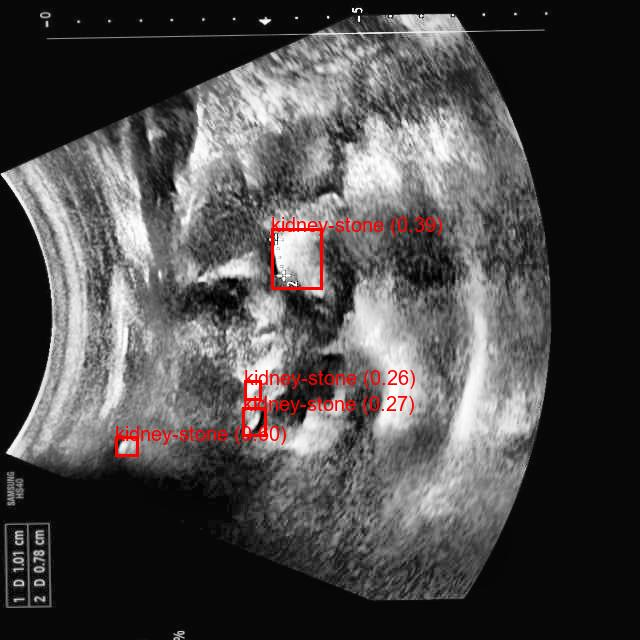
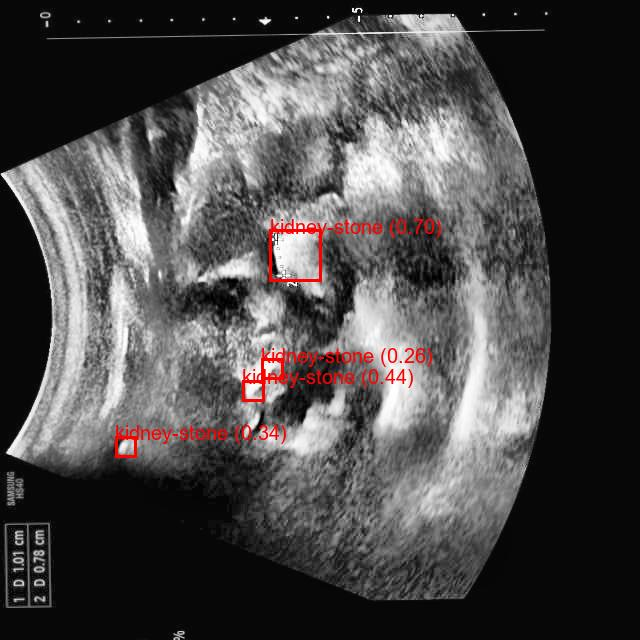
added yolov8 on app

Changed region(s): [[0.1875, 0.5312, 0.6875, 0.7188], [0.4062, 0.3125, 0.7188, 0.4688]]

diff --git a/app.py b/app.py
@@ -17,7 +17,7 @@ st.subheader("Input Options")
 input_option = st.radio("Choose input type", ("Upload Image", "Use Camera"), key="input_radio")
 
 # Dropdown to select the model
-model_option = st.selectbox("Select Model", ("YOLOv11x", "YOLOv8x (Not yet available)"), key="model_dropdown")
+model_option = st.selectbox("Select Model", ("YOLOv11x", "YOLOv8x"), key="model_dropdown")
 
 # Initialize variables
 img_file_buffer = None
@@ -48,23 +48,13 @@ if img_file_buffer or uploaded_image:
 if image_path and st.button("Run Prediction"):
     # URL and API setup based on selected model
     url = "https://predict.ultralytics.com"
-    if model_option == "YOLOv11x":
-        headers = {"x-api-key": "3b5056ac3a9ea918ac838037d777446ba97e9ad3fc"}
-        data = {
-            "model": "https://hub.ultralytics.com/models/eLi9nXp1Q5RnK0HlHBhn",
-            "imgsz": 640,
-            "conf": 0.25,
-            "iou": 0.45,
-        }
-    elif model_option == "YOLOv8x":
-        # Update with YOLOv8x model once available
-        headers = {"x-api-key": "your-api-key-for-yolov8x"}
-        data = {
-            "model": "https://hub.ultralytics.com/models/YOLOv8x",
-            "imgsz": 640,
-            "conf": 0.25,
-            "iou": 0.45,
-        }
+    headers = {"x-api-key": "3b5056ac3a9ea918ac838037d777446ba97e9ad3fc"}
+    data = {
+        "model": "https://hub.ultralytics.com/models/eLi9nXp1Q5RnK0HlHBhn" if model_option == "YOLOv11x" else "https://hub.ultralytics.com/models/SMt917G5PhT5W142f1Iq",
+        "imgsz": 640,
+        "conf": 0.25,
+        "iou": 0.45,
+    }
 
     try:
         # Send the image for inference
